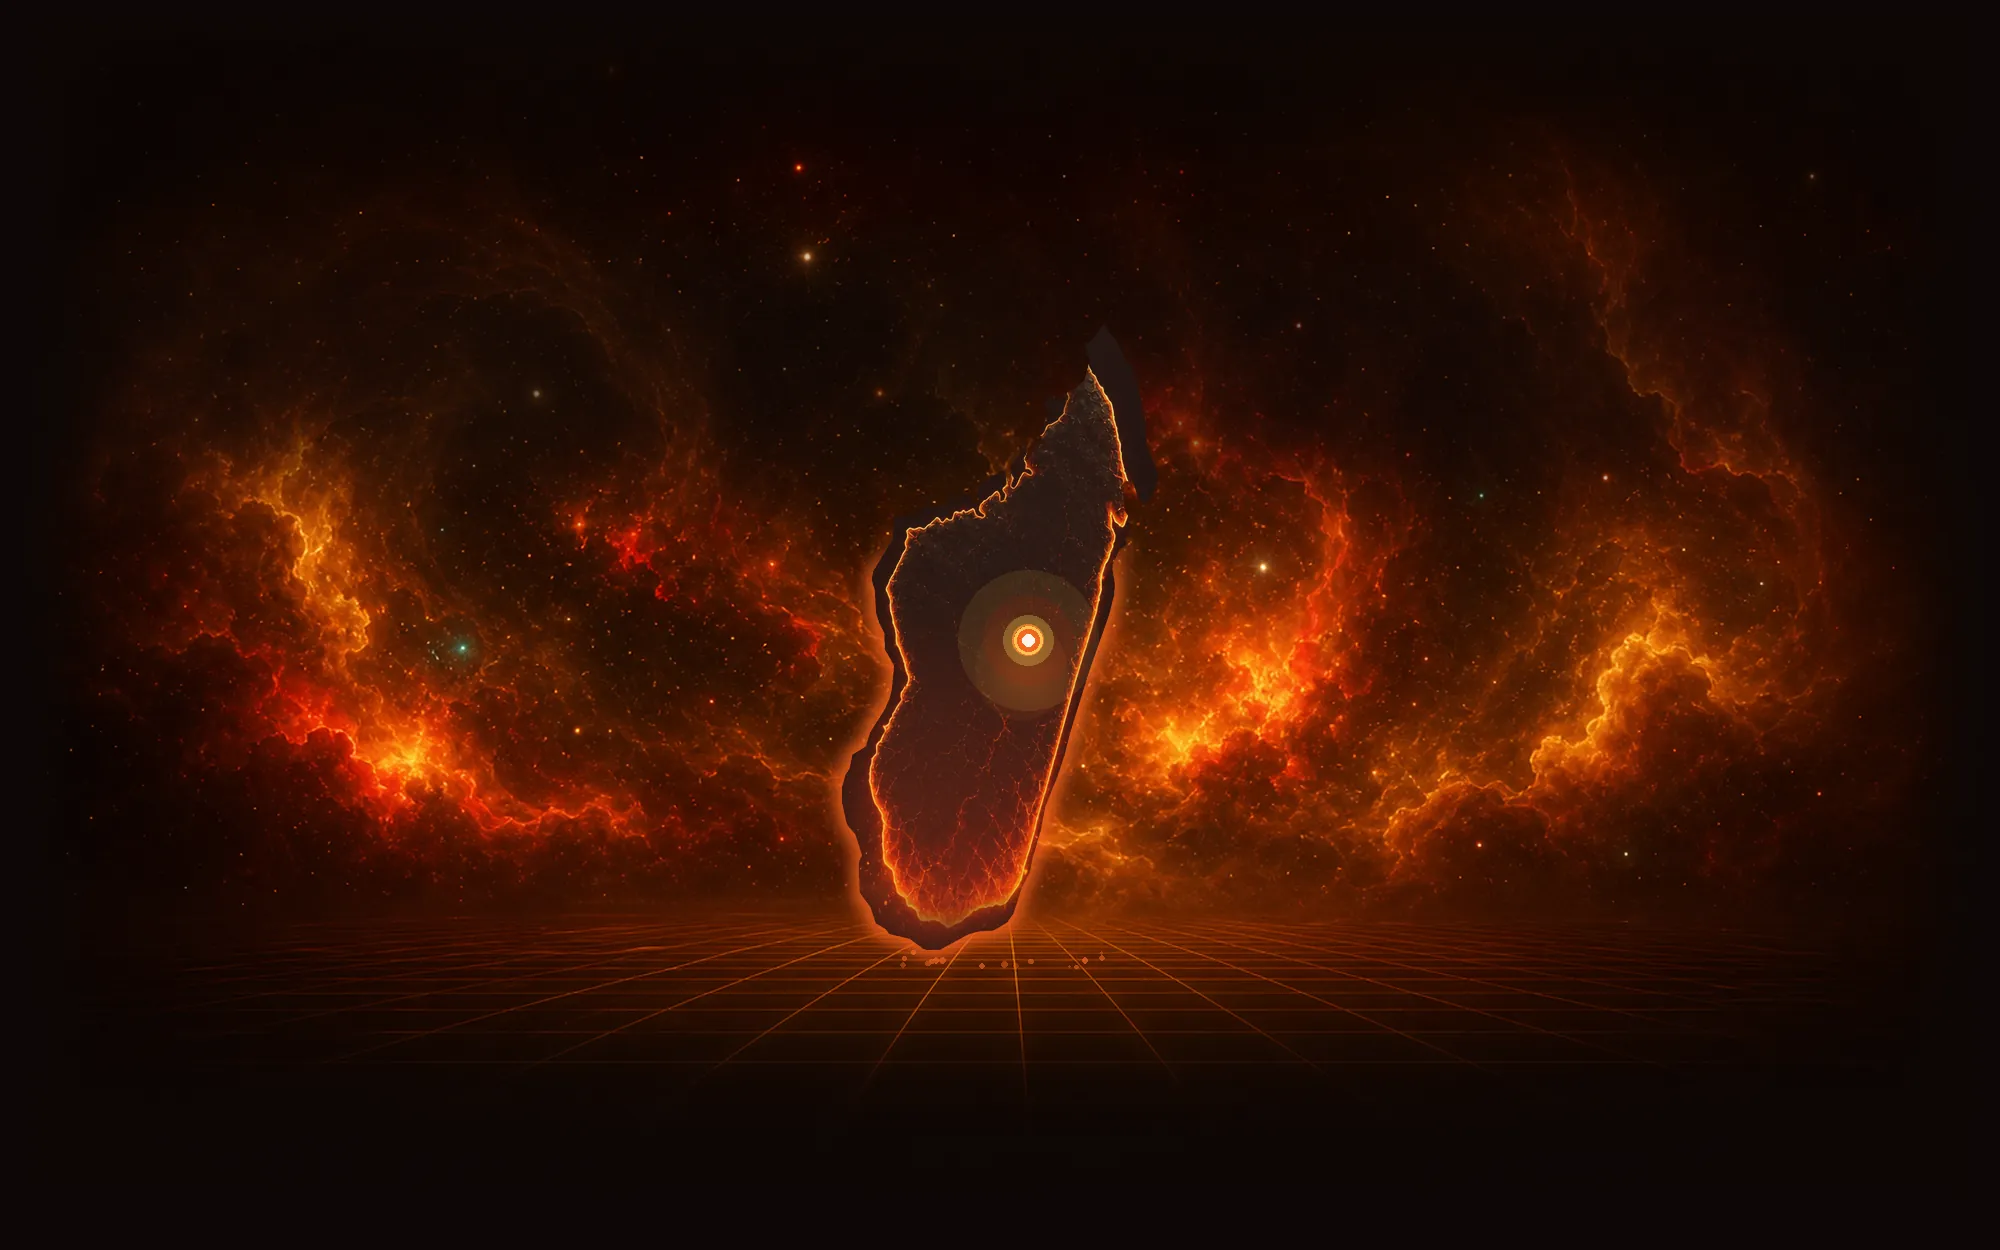
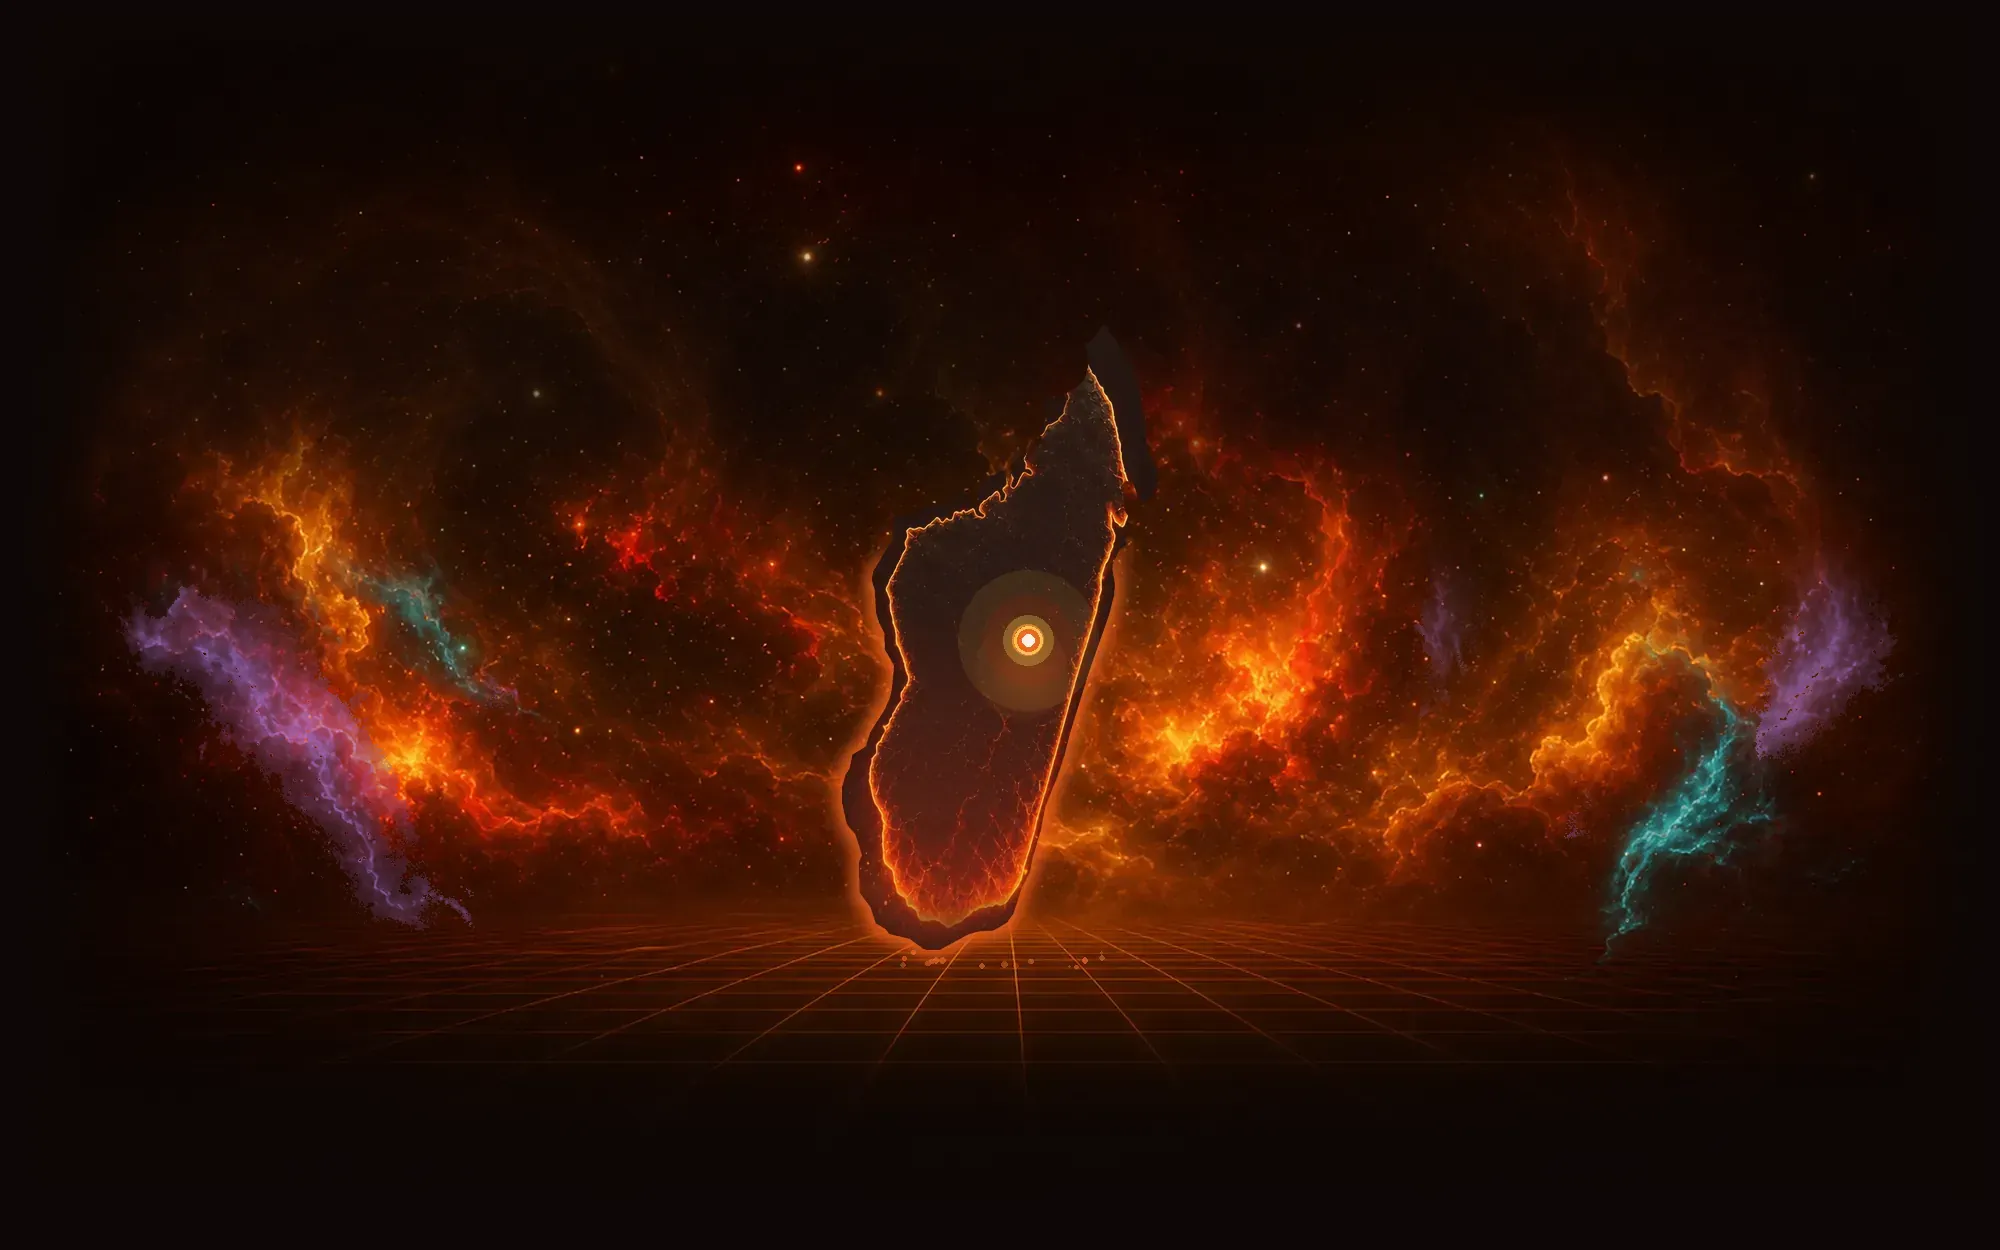
feat: nuance couleur chaud/froid (turquoise + violet en second accent)
Le site paraissait monotone (tout orange braise). La braise reste l'identite
dominante (~65%), le turquoise #2fbfa8 et le violet #c18cff deviennent un
second accent tisse dans toute la page — sans toucher au contraste du texte.

Systeme (tokens-only, scoped) :
- Tokens --color-accent-cool / --color-accent-cool-2 + cascade [data-mood]
  (warm/teal/violet) posee sur les sections
- Kickers, icones et titres holo suivent l'humeur de leur section
  (--section-accent + stops holo surchargeables) ; sections chaudes intactes
- Fond anime : derive de temperature au scroll (le shader se rafraichit au
  coeur du parcours puis revient au chaud), via l'uniform u_scroll existant

Diffusion du froid dans les decors (les elements « multicolores » pointaient
en fait vers des tokens fx tous chauds) :
- Braises (Embers), points de la constellation Madagascar (FX_NODE_COLORS),
  meteores, etincelles : dominante chaude + vraies pointes froides
- Icones de reassurance, orbites et valeurs HUD du hero, icones de deploiement
  passees en vrai turquoise/violet
- Numeros d'etapes du deploiement : cycle chaud/froid au lieu de rouge/orange
- Titres des sections froides clairement teintes (turquoise/violet)
- « Boum magique » de la plongee (bloom) rendu iridescent (turquoise -> violet)

Fond de la scene plongee (dive-universe.webp) regenere par Codex selon le
brief v5 : volutes turquoise/violettes sur les flancs, ile Madagascar 100%
braise, Antananarivo point brillant conserve.
[…]

Changed region(s): [[0.062, 0.4368, 0.248, 0.7488], [0.806, 0.4368, 0.961, 0.7488], [0.713, 0.468, 0.744, 0.5304]]

diff --git a/src/app/globals.css b/src/app/globals.css
@@ -34,6 +34,13 @@
   --color-fx-pink: #e82818;
   --color-fx-teal: #2fbfa8;
 
+  /* Second accent FROID (nuance chaud/froid, 20/07/2026) — braise reste
+     dominant ; ces teintes cassent la monotonie orange et s'accordent aux
+     reflets cyan/magenta des casques sur les photos. Appliquées en touches
+     via --section-accent (map [data-mood] ci-dessous), jamais en fond. */
+  --color-accent-cool: #2fbfa8; /* turquoise (= --color-fx-teal) */
+  --color-accent-cool-2: #c18cff; /* violet */
+
   /* Code couleur des 8 offres (ids = OFFER_IDS de config/offers.ts — test
      gardien dans offers.test.ts). Braise + accents étendus de même
      intensité ; appliqués en TOUCHES via --offer-accent (map ci-dessous),
@@ -128,6 +135,36 @@
 
 [data-offer-accent="marques-evenementiel"] {
   --offer-accent: var(--color-offer-marques-evenementiel);
+}
+
+/* Humeur d'une section : data-mood pose --section-accent, consommé par le
+   kicker, le titre holo (--holo-3) et les arêtes GeoFrame du sous-arbre.
+   Défaut (pas de data-mood) = accent chaud de marque. */
+[data-mood="warm"] {
+  --section-accent: var(--color-accent);
+}
+
+[data-mood="teal"] {
+  --section-accent: var(--color-accent-cool);
+}
+
+[data-mood="violet"] {
+  --section-accent: var(--color-accent-cool-2);
+}
+
+/* Les sections froides teintent le GROS titre holo vers leur accent : le
+   dégradé lit clairement en turquoise/violet (stops 28→78 % = l'accent, cœur
+   éclairci), avec une accroche braise conservée aux deux extrémités (0/100 %
+   = --holo-1 par défaut, chaud). Les sections chaudes gardent la comète. */
+[data-mood="teal"],
+[data-mood="violet"] {
+  --holo-2: var(--section-accent);
+  --holo-3: color-mix(in srgb, var(--section-accent) 62%, white);
+  --holo-4: var(--section-accent);
+  --geo-edge-c1: var(--section-accent);
+  --geo-edge-c2: color-mix(in srgb, var(--section-accent) 55%, var(--color-accent));
+  --geo-edge-c3: var(--section-accent);
+  --geo-halo: var(--section-accent);
 }
 
 /* Reset minimal (remplace le preflight Tailwind) : uniquement ce sur quoi

diff --git a/src/components/fx/StickyScrollReveal.module.css b/src/components/fx/StickyScrollReveal.module.css
@@ -97,12 +97,38 @@
 
 .num {
   margin-right: 0.5rem;
-  color: var(--color-accent-hot);
+  /* Couleur cyclée par position (rythme chaud/froid en scrollant) — voir le
+     cycle nth-child ci-dessous. */
+  color: var(--num-color, var(--color-accent-hot));
   font-variant-numeric: tabular-nums;
 }
 
+/* L'étape active garde SA couleur de cycle et gagne un halo (au lieu d'être
+   toujours rouge) : le numéro actif reste dans le rythme de couleurs. */
 .numActive {
-  color: var(--color-fx-pink);
+  text-shadow: 0 0 12px currentColor;
+}
+
+/* Cycle chaud/froid des numéros : ambre → turquoise → violet → rouge →
+   orange, sur les deux variantes (sticky desktop + grille reduced-motion). */
+.list .item:nth-child(5n + 2),
+.reducedList li:nth-child(5n + 2) {
+  --num-color: var(--color-accent-cool);
+}
+
+.list .item:nth-child(5n + 3),
+.reducedList li:nth-child(5n + 3) {
+  --num-color: var(--color-accent-cool-2);
+}
+
+.list .item:nth-child(5n + 4),
+.reducedList li:nth-child(5n + 4) {
+  --num-color: var(--color-fx-pink);
+}
+
+.list .item:nth-child(5n + 5),
+.reducedList li:nth-child(5n + 5) {
+  --num-color: var(--color-accent);
 }
 
 .body {

diff --git a/src/components/fx/TracingBeam.module.css b/src/components/fx/TracingBeam.module.css
@@ -78,8 +78,25 @@
 
 .num {
   margin-right: 0.5rem;
-  color: var(--color-accent-hot);
+  /* Couleur cyclée par position (rythme chaud/froid) — cycle nth-child ci-dessous. */
+  color: var(--num-color, var(--color-accent-hot));
   font-variant-numeric: tabular-nums;
+}
+
+.item:nth-child(5n + 2) {
+  --num-color: var(--color-accent-cool);
+}
+
+.item:nth-child(5n + 3) {
+  --num-color: var(--color-accent-cool-2);
+}
+
+.item:nth-child(5n + 4) {
+  --num-color: var(--color-fx-pink);
+}
+
+.item:nth-child(5n + 5) {
+  --num-color: var(--color-accent);
 }
 
 .body {

diff --git a/src/components/fx/LiquidBackground.tsx b/src/components/fx/LiquidBackground.tsx
@@ -171,6 +171,12 @@ void main() {
   float t = u_time * 0.07;
   float s = u_scroll;
 
+  // Dérive de température au scroll (nuance chaud/froid, 20/07) : le fond se
+  // rafraîchit doucement au cœur du parcours (offres → déploiement) puis
+  // revient au chaud. Gaussienne centrée ~mi-page, amplitude faible — c'est
+  // une nuance d'ambiance, pas une bascule. Chaud (cool≈0) en haut/bas.
+  float cool = exp(-pow((s - 6.0) / 4.5, 2.0));
+
   // Distorsion liquide : le champ entier ondule, le scroll le remue.
   vec2 warp = vec2(
     noise(p * 1.4 + vec2(t, -t * 0.6) + s * 0.45),
@@ -186,10 +192,14 @@ void main() {
   vec2 c3 = vec2(aspect * (0.50 + 0.20 * sin(t * 0.60 + 2.1)), 0.12 + 0.14 * cos(t * 1.00) + 0.10 * sin(s * 2.4 + 2.6));
   vec2 c4 = vec2(aspect * (0.12 + 0.13 * cos(t * 0.75 + 4.2)), 0.30 + 0.16 * sin(t * 0.85) + 0.12 * sin(s * 1.8 + 4.0));
 
+  /* c1 (dominante, haut de page) reste chaude ; c2/c3 tirent vers le froid au
+     cœur du parcours ; c4 (teal) se renforce au milieu. */
   col += vec3(0.961, 0.400, 0.118) * 0.26 * glow(q, c1, 0.58); /* accent orange #f5661e */
-  col += vec3(0.910, 0.353, 0.110) * 0.24 * glow(q, c2, 0.62); /* orange profond #e85a1c */
-  col += vec3(0.910, 0.157, 0.094) * 0.17 * glow(q, c3, 0.55); /* rouge #e82818 */
-  col += vec3(0.184, 0.749, 0.659) * 0.13 * glow(q, c4, 0.50); /* pointe teal rare #2fbfa8 */
+  col += mix(vec3(0.910, 0.353, 0.110), vec3(0.184, 0.749, 0.659), cool * 0.32)
+    * 0.24 * glow(q, c2, 0.62); /* orange profond → turquoise */
+  col += mix(vec3(0.910, 0.157, 0.094), vec3(0.757, 0.549, 1.000), cool * 0.42)
+    * 0.17 * glow(q, c3, 0.55); /* rouge → violet #c18cff */
+  col += vec3(0.184, 0.749, 0.659) * (0.13 + 0.09 * cool) * glow(q, c4, 0.50); /* teal renforcé */
 
   // Lumière du pointeur : discrète, elle lit comme le halo curseur qui
   // se réfracte dans la profondeur.

diff --git a/src/components/fx/fx-neon.css b/src/components/fx/fx-neon.css
@@ -6,13 +6,16 @@
 
 .holo-text {
   color: var(--color-accent-hot); /* fallback sans background-clip: text */
+  /* Stops surchargeables (--holo-1..4) : une section « froide » (data-mood)
+     injecte son accent dans --holo-3 pour teinter SON titre, sans toucher
+     les titres chauds. Défauts = comète de marque. */
   background-image: linear-gradient(
     100deg,
-    var(--color-accent-hot) 0%,
-    var(--color-fx-cyan) 28%,
-    var(--color-fx-violet) 55%,
-    var(--color-fx-pink) 78%,
-    var(--color-accent-hot) 100%
+    var(--holo-1, var(--color-accent-hot)) 0%,
+    var(--holo-2, var(--color-fx-cyan)) 28%,
+    var(--holo-3, var(--color-fx-violet)) 55%,
+    var(--holo-4, var(--color-fx-pink)) 78%,
+    var(--holo-1, var(--color-accent-hot)) 100%
   );
   background-size: 220% 100%;
   background-clip: text;

diff --git a/src/components/sections/Hero.module.css b/src/components/sections/Hero.module.css
@@ -89,18 +89,20 @@
   inset: 0;
 }
 
+/* Orbites en vrai froid (turquoise / violet) : la scène casque respire le
+   second accent au lieu d'un double cerclage orange. */
 .orbitOuter {
   position: absolute;
   inset: 0;
   border-radius: 50%;
-  border: 1px solid color-mix(in srgb, var(--color-fx-cyan) 15%, transparent);
+  border: 1px solid color-mix(in srgb, var(--color-accent-cool) 22%, transparent);
 }
 
 .orbitInner {
   position: absolute;
   inset: 2rem;
   border-radius: 50%;
-  border: 1px dashed color-mix(in srgb, var(--color-fx-violet) 25%, transparent);
+  border: 1px dashed color-mix(in srgb, var(--color-accent-cool-2) 30%, transparent);
 }
 
 .neural {
@@ -127,7 +129,7 @@
   font-family: var(--font-display);
   font-size: 0.75rem;
   letter-spacing: 0.3em;
-  color: var(--color-fx-cyan);
+  color: var(--color-accent-cool);
   text-transform: uppercase;
 }
 
@@ -157,7 +159,7 @@
 
 .hudValueCyan {
   composes: hudValue;
-  color: var(--color-fx-cyan);
+  color: var(--color-accent-cool);
 }
 
 .hudValuePink {

diff --git a/src/components/sections/ReassuranceBar.module.css b/src/components/sections/ReassuranceBar.module.css
@@ -43,14 +43,16 @@
   filter: drop-shadow(0 0 8px color-mix(in srgb, var(--color-fx-pink) 55%, transparent));
 }
 
+/* Vrais froids (turquoise, violet) : les 5 marqueurs lisent enfin comme
+   3 chauds + 2 froids, pas 5 nuances d'orange. */
 .glowViolet {
-  color: var(--color-fx-violet);
-  filter: drop-shadow(0 0 8px color-mix(in srgb, var(--color-fx-violet) 55%, transparent));
+  color: var(--color-accent-cool-2);
+  filter: drop-shadow(0 0 8px color-mix(in srgb, var(--color-accent-cool-2) 55%, transparent));
 }
 
 .glowCyan {
-  color: var(--color-fx-cyan);
-  filter: drop-shadow(0 0 8px color-mix(in srgb, var(--color-fx-cyan) 60%, transparent));
+  color: var(--color-accent-cool);
+  filter: drop-shadow(0 0 8px color-mix(in srgb, var(--color-accent-cool) 60%, transparent));
 }
 
 .glowHot {

diff --git a/src/components/sections/DiveSection.module.css b/src/components/sections/DiveSection.module.css
@@ -68,15 +68,18 @@
   background: var(--color-bg-deep);
 }
 
+/* « Boum magique » iridescent : cœur blanc → turquoise → violet (vrais froids)
+   — un éclat d'énergie magique qui tranche sur l'embrasement braise, plutôt
+   qu'un flash chaud de plus. */
 .bloom {
   position: absolute;
   inset: 0;
   background: radial-gradient(
     circle at 50% 48%,
     var(--color-ink) 0%,
-    var(--color-fx-cyan) 28%,
-    var(--color-fx-violet) 54%,
-    transparent 74%
+    var(--color-accent-cool) 30%,
+    var(--color-accent-cool-2) 56%,
+    transparent 76%
   );
 }
 

diff --git a/src/components/fx/fxPalette.ts b/src/components/fx/fxPalette.ts
@@ -1,6 +1,12 @@
-/** Couleurs cyclées des nœuds lumineux (NeuralField, MadagascarField). */
+/**
+ * Couleurs cyclées des nœuds lumineux (NeuralField, MadagascarField).
+ * Chaudes (fx-*) + un vrai turquoise et un vrai violet : les « points
+ * nuages » de la constellation cessent d'être uniformément orange.
+ */
 export const FX_NODE_COLORS = [
   "var(--color-fx-cyan)",
+  "var(--color-accent-cool)",
   "var(--color-fx-pink)",
+  "var(--color-accent-cool-2)",
   "var(--color-fx-violet)",
 ] as const;

diff --git a/src/components/sections/DeploymentSection.module.css b/src/components/sections/DeploymentSection.module.css
@@ -53,8 +53,8 @@
 
 /* Un hue par étape — halos dérivés des tokens fx (filter statique, jamais animé). */
 .hueCyan {
-  color: var(--color-fx-cyan);
-  filter: drop-shadow(0 0 24px color-mix(in srgb, var(--color-fx-cyan) 70%, transparent));
+  color: var(--color-accent-cool);
+  filter: drop-shadow(0 0 24px color-mix(in srgb, var(--color-accent-cool) 70%, transparent));
 }
 
 .hueHot {
@@ -63,8 +63,8 @@
 }
 
 .hueViolet {
-  color: var(--color-fx-violet);
-  filter: drop-shadow(0 0 24px color-mix(in srgb, var(--color-fx-violet) 70%, transparent));
+  color: var(--color-accent-cool-2);
+  filter: drop-shadow(0 0 24px color-mix(in srgb, var(--color-accent-cool-2) 70%, transparent));
 }
 
 .huePink {

diff --git a/src/components/sections/section.module.css b/src/components/sections/section.module.css
@@ -64,7 +64,8 @@
   font-weight: 500;
   letter-spacing: 0.2em;
   text-transform: uppercase;
-  color: var(--color-accent);
+  /* Teinte d'humeur de la section (data-mood) — chaud par défaut. */
+  color: var(--section-accent, var(--color-accent));
 }
 
 .iconBadge {
@@ -92,7 +93,8 @@
 .icon {
   width: 1.25rem;
   height: 1.25rem;
-  color: var(--color-accent);
+  /* Suit l'humeur de la section (data-mood) — chaud par défaut. */
+  color: var(--section-accent, var(--color-accent));
 }
 
 /* Icône + titre CÔTE À CÔTE (mobile ET desktop) : le badge empilé au-dessus

diff --git a/src/components/fx/Embers.tsx b/src/components/fx/Embers.tsx
@@ -5,8 +5,9 @@ import { cx } from "@/lib/cx";
 import { pseudoRandom } from "@/lib/pseudoRandom";
 import { useOffscreenPause } from "@/lib/motion/useOffscreenPause";
 
-/* Braises : chaud uniquement (la pointe teal reste aux Sparkles). */
-const COLORS = ["#ffc24d", "#f5661e", "#f5431c", "#e82818"];
+/* Braises : dominante chaude + pointes froides (turquoise, violet) — casse
+   la monotonie orange pour que le second accent froid paraisse natif. */
+const COLORS = ["#ffc24d", "#f5661e", "#f5431c", "#e82818", "#2fbfa8", "#c18cff"];
 
 type EmbersProps = {
   /** Avant-plan de scène : ~34 ; nappe d'ambiance : ~20. */